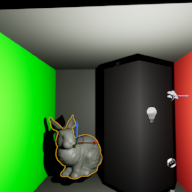
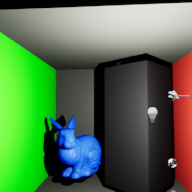
VR update

diff --git a/Source/ShaderModule/CustomComputeShader.cpp b/Source/ShaderModule/CustomComputeShader.cpp
@@ -66,6 +66,55 @@ public:
 };
 
 
+
+class SSGIComputeShaderVR : public FGlobalShader
+{
+public:
+	DECLARE_GLOBAL_SHADER(SSGIComputeShaderVR);
+	//Tells the engine that this shader uses a structure for its parameters
+	SHADER_USE_PARAMETER_STRUCT(SSGIComputeShaderVR, FGlobalShader);
+	/// <summary>
+	/// DECLARATION OF THE PARAMETER STRUCTURE
+	/// The parameters must match the parameters in the HLSL code
+	/// For each parameter, provide the C++ type, and the name (Same name used in HLSL code)
+	/// </summary>
+	BEGIN_SHADER_PARAMETER_STRUCT(FParameters, )
+		SHADER_PARAMETER_UAV(RWTexture2D<float>, OutputTexture)
+		SHADER_PARAMETER_TEXTURE(Texture2D, ColorTexture)
+		SHADER_PARAMETER_TEXTURE(Texture2D, NormalTexture)
+		SHADER_PARAMETER_TEXTURE(Texture2D, DepthTexture)
+		SHADER_PARAMETER_SAMPLER(SamplerState, InputSampler)
+		SHADER_PARAMETER(FMatrix, InverseProjection)
+		SHADER_PARAMETER(FMatrix, InverseView)
+		SHADER_PARAMETER(FMatrix, Projection)
+		SHADER_PARAMETER(FMatrix, View)
+		SHADER_PARAMETER(FVector2D, ViewportSize)
+		SHADER_PARAMETER(int, FrameCount)
+		SHADER_PARAMETER(int, StepCount)
+		SHADER_PARAMETER(int, PixelOffset)
+		END_SHADER_PARAMETER_STRUCT()
+
+
+public:
+	//Called by the engine to determine which permutations to compile for this shader
+	static bool ShouldCompilePermutation(const FGlobalShaderPermutationParameters& Parameters)
+	{
+		return IsFeatureLevelSupported(Parameters.Platform, ERHIFeatureLevel::SM5);
+	}
+
+	//Modifies the compilations environment of the shader
+	static inline void ModifyCompilationEnvironment(const FGlobalShaderPermutationParameters& Parameters, FShaderCompilerEnvironment& OutEnvironment)
+	{
+		FGlobalShader::ModifyCompilationEnvironment(Parameters, OutEnvironment);
+
+		//We're using it here to add some preprocessor defines. That way we don't have to change both C++ and HLSL code when we change the value for NUM_THREADS_PER_GROUP_DIMENSION
+		OutEnvironment.SetDefine(TEXT("THREADGROUPSIZE_X"), NUM_THREADS_PER_GROUP_DIMENSION);
+		OutEnvironment.SetDefine(TEXT("THREADGROUPSIZE_Y"), NUM_THREADS_PER_GROUP_DIMENSION);
+		OutEnvironment.SetDefine(TEXT("THREADGROUPSIZE_Z"), 1);
+	}
+};
+
+
 class BlurComputeShader : public FGlobalShader
 {
 public:
@@ -154,6 +203,7 @@ public:
 
 
 IMPLEMENT_GLOBAL_SHADER(SSGIComputeShader, "/CustomShaders/SSGI.usf", "Main", SF_Compute);
+IMPLEMENT_GLOBAL_SHADER(SSGIComputeShaderVR, "/CustomShaders/SSGI_VR.usf", "Main", SF_Compute);
 IMPLEMENT_GLOBAL_SHADER(BlurComputeShader, "/CustomShaders/Blur.usf", "Main", SF_Compute);
 IMPLEMENT_GLOBAL_SHADER(CombineComputeShader, "/CustomShaders/Combine.usf", "Main", SF_Compute);
 
@@ -214,7 +264,7 @@ void ComputeShaderManager::Execute_RenderThread(FRHICommandListImmediate& RHICmd
 		return;
 
 	CreateTextures_RenderThread(RHICmdList, SceneContext);
-	SSGIStage_RenderThread(RHICmdList, SceneContext);
+	SSGIStageVR_RenderThread(RHICmdList, SceneContext);
 
 	if (m_pCachedParams.Blur)
 	{
@@ -226,7 +276,7 @@ void ComputeShaderManager::Execute_RenderThread(FRHICommandListImmediate& RHICmd
 		BlurStage_RenderThread(RHICmdList, SceneContext, m_pDownsampleQuarterRes, m_pDownsampleHalfResView, 2, 1);
 		BlurStage_RenderThread(RHICmdList, SceneContext, m_pDownsampleHalfRes, m_pSSGIOutputView, 1, 1);
 	}
-	// Combine textures
+	// Combine texturesw
 	CombineStage_RenderThread(RHICmdList, SceneContext);
 
 	//Copy shader's output to the colorTexture provided by the client
@@ -326,6 +376,76 @@ void ComputeShaderManager::SSGIStage_RenderThread(FRHICommandListImmediate& RHIC
 	);
 
 	//Dispatch the compute shader for left eye
+	FComputeShaderUtils::Dispatch(RHICmdList, ssgiCS, PassParameters, workGroups);
+}
+
+void ComputeShaderManager::SSGIStageVR_RenderThread(FRHICommandListImmediate& RHICmdList, FSceneRenderTargets& SceneContext)
+{
+	//If there's no cached parameters to use, skip
+	//If no Render Target is supplied in the cachedParams, skip
+	if (!(bCachedParamsAreValid && m_pCachedParams.RenderTarget))
+		return;
+
+	//Render Thread Assertion
+	check(IsInRenderingThread());
+
+	auto colorTexture = SceneContext.GetSceneColorTexture();
+	auto normalTexture = SceneContext.GetGBufferATexture();
+	auto depthTexture = SceneContext.GetSceneDepthTexture();
+
+	const int32_t sizeX = (int32_t)colorTexture->GetTexture2D()->GetSizeX();
+	const int32_t sizeY = (int32_t)colorTexture->GetTexture2D()->GetSizeY();
+
+	FSamplerStateInitializerRHI initializer(
+		ESamplerFilter::SF_Bilinear,
+		AM_Wrap,
+		AM_Wrap,
+		AM_Wrap,
+		1,
+		1,
+		1.0f,
+		5.0f
+	);
+
+	//Fill the shader parameters structure with tha cached data supplied by the client
+	SSGIComputeShaderVR::FParameters PassParameters;
+	PassParameters.InverseProjection = m_pCachedParams.LeftEyeInvProjection;
+	PassParameters.InverseView = m_pCachedParams.LeftEyeView.Inverse();
+
+	PassParameters.Projection = m_pCachedParams.LeftEyeInvProjection.Inverse();
+	PassParameters.View = m_pCachedParams.LeftEyeView;
+
+	PassParameters.InputSampler = RHICmdList.CreateSamplerState(initializer);
+	PassParameters.StepCount = m_pCachedParams.StepCount;
+	PassParameters.ViewportSize = FVector2D(sizeX, sizeY);
+	PassParameters.FrameCount = frameCount++;
+	PassParameters.OutputTexture = m_pSSGIOutputView;
+	PassParameters.ColorTexture = colorTexture;
+	PassParameters.NormalTexture = normalTexture;
+	PassParameters.DepthTexture = depthTexture;
+	PassParameters.PixelOffset = 0;
+
+	//Get a reference to our shader type from global shader map
+	TShaderMapRef<SSGIComputeShaderVR> ssgiCS(GetGlobalShaderMap(GMaxRHIFeatureLevel));
+
+	FIntVector workGroups(
+		FMath::DivideAndRoundUp(sizeX / 2, NUM_THREADS_PER_GROUP_DIMENSION),
+		FMath::DivideAndRoundUp(sizeY, NUM_THREADS_PER_GROUP_DIMENSION),
+		1
+	);
+
+	//Dispatch the compute shader for left eye
+	FComputeShaderUtils::Dispatch(RHICmdList, ssgiCS, PassParameters, workGroups);
+
+
+	PassParameters.InverseProjection = m_pCachedParams.RightEyeInvProjection;
+	PassParameters.Projection = m_pCachedParams.RightEyeInvProjection.Inverse();
+
+	PassParameters.InverseView = m_pCachedParams.RightEyeView.Inverse();
+	PassParameters.View = m_pCachedParams.RightEyeView;
+
+	PassParameters.PixelOffset = sizeX / 2;
+	
 	FComputeShaderUtils::Dispatch(RHICmdList, ssgiCS, PassParameters, workGroups);
 }
 

diff --git a/Source/PostProcessing/ComputeActor.cpp b/Source/PostProcessing/ComputeActor.cpp
@@ -6,7 +6,10 @@
 #include "Camera/CameraActor.h"
 #include "Engine/Engine.h"
 
+#include "C:/Program Files/Epic Games/UE_4.27/Engine/Plugins/Runtime/OpenXR/Source/OpenXRHMD/Private/OpenXRHMD.h"
+
 #include "../ShaderModule/CustomComputeShader.h"
+
 
 template <typename T>
 TArray<T*> FindActors(UWorld* world)
@@ -91,6 +94,8 @@ static FMatrix CreateCombinedProjectionMatrix(const FMatrix& LeftProjectionMatri
 	return CombinedProjectionMatrix;
 }
 
+
+
 // Called every frame
 void AComputeActor::Tick(float DeltaTime)
 {
@@ -99,8 +104,21 @@ void AComputeActor::Tick(float DeltaTime)
 	{
 		FMatrix leftEye = GEngine->StereoRenderingDevice->GetStereoProjectionMatrix(eSSP_LEFT_EYE);
 		FMatrix rightEye = GEngine->StereoRenderingDevice->GetStereoProjectionMatrix(eSSP_RIGHT_EYE);
-		m_Parameters->LeftEyeInvProjection = leftEye;
-		m_Parameters->RightEyeInvProjection = rightEye;
+		
+		FOpenXRHMD* casted = (FOpenXRHMD*)(GEngine->StereoRenderingDevice.Get());
+		FQuat eyeRot;
+		FVector eyePos;
+		casted->GetRelativeEyePose(0, eSSP_LEFT_EYE, eyeRot, eyePos);
+		
+		FTransform transform(eyeRot, eyePos);
+		m_Parameters->LeftEyeView = transform.ToMatrixNoScale();
+		
+		casted->GetRelativeEyePose(0, eSSP_RIGHT_EYE, eyeRot, eyePos);
+		transform = FTransform(eyeRot, eyePos);
+		m_Parameters->RightEyeView = transform.ToMatrixNoScale();
+		
+		m_Parameters->LeftEyeInvProjection = leftEye.Inverse();
+		m_Parameters->RightEyeInvProjection = rightEye.Inverse();
 	}
 	m_Parameters->SigmaSpatial = m_SigmaSpatial;
 	m_Parameters->SigmaIntensity = m_SigmaIntensity;
@@ -120,6 +138,8 @@ void AComputeActor::Tick(float DeltaTime)
 
 	m_Parameters->InverseProjection = m_CameraManager->GetCameraCachePOV().CalculateProjectionMatrix().Inverse();
 	m_Parameters->InverseView = m_CameraComponent->GetComponentToWorld().ToInverseMatrixWithScale();
+	
+
 	ComputeShaderManager::Get()->UpdateParameters(*m_Parameters);
 }
 

diff --git a/Source/PostProcessing/PostProcessing.Build.cs b/Source/PostProcessing/PostProcessing.Build.cs
@@ -1,5 +1,7 @@
 // Copyright Epic Games, Inc. All Rights Reserved.
 
+using System;
+using System.IO;
 using UnrealBuildTool;
 
 public class PostProcessing : ModuleRules
@@ -20,14 +22,14 @@ public class PostProcessing : ModuleRules
             "Projects"
         });
 
-		PrivateDependencyModuleNames.AddRange(new string[] { "ShaderModule" });
+		PrivateDependencyModuleNames.AddRange(new string[] { "ShaderModule", "OpenXRHMD" });
+        
+        // Uncomment if you are using Slate UI
+        // PrivateDependencyModuleNames.AddRange(new string[] { "Slate", "SlateCore" });
 
-		// Uncomment if you are using Slate UI
-		// PrivateDependencyModuleNames.AddRange(new string[] { "Slate", "SlateCore" });
-		
-		// Uncomment if you are using online features
-		// PrivateDependencyModuleNames.Add("OnlineSubsystem");
+        // Uncomment if you are using online features
+        // PrivateDependencyModuleNames.Add("OnlineSubsystem");
 
-		// To include OnlineSubsystemSteam, add it to the plugins section in your uproject file with the Enabled attribute set to true
-	}
+        // To include OnlineSubsystemSteam, add it to the plugins section in your uproject file with the Enabled attribute set to true
+    }
 }

diff --git a/Source/ShaderModule/CustomComputeShader.h b/Source/ShaderModule/CustomComputeShader.h
@@ -29,6 +29,9 @@ struct FComputeShaderParameters
 	FMatrix LeftEyeInvProjection;
 	FMatrix RightEyeInvProjection;
 
+	FMatrix LeftEyeView;
+	FMatrix RightEyeView;
+
 	bool Enabled = true;
 	bool ShowSSGI = false;
 	bool Blur = true;
@@ -78,6 +81,10 @@ private:
 	void CreateTextures_RenderThread(FRHICommandListImmediate& RHICmdList, class FSceneRenderTargets& SceneContext);
 	void SSGIStage_RenderThread(FRHICommandListImmediate& RHICmdList, class FSceneRenderTargets& SceneContext);
 	
+	void SSGIStageVR_RenderThread(FRHICommandListImmediate& RHICmdList, class FSceneRenderTargets& SceneContext);
+
+
+
 	void BlurStage_RenderThread(FRHICommandListImmediate& RHICmdList, class FSceneRenderTargets& SceneContext, FTexture2DRHIRef InputTexture, FUnorderedAccessViewRHIRef OutputView, uint32_t ResolutionDivider, int Stage);
 	void CombineStage_RenderThread(FRHICommandListImmediate& RHICmdList, class FSceneRenderTargets& SceneContext);
 

diff --git a/Source/PostProcessing/ComputeActor.h b/Source/PostProcessing/ComputeActor.h
@@ -67,7 +67,7 @@ public:
 	bool m_ShowSSGI = false;
 
 	UPROPERTY(EditAnywhere, BlueprintReadWrite, Category = ShaderDemo)
-	bool m_Blur = true;
+	bool m_Blur = false;
 
 	UCameraComponent* m_CameraComponent;
 
